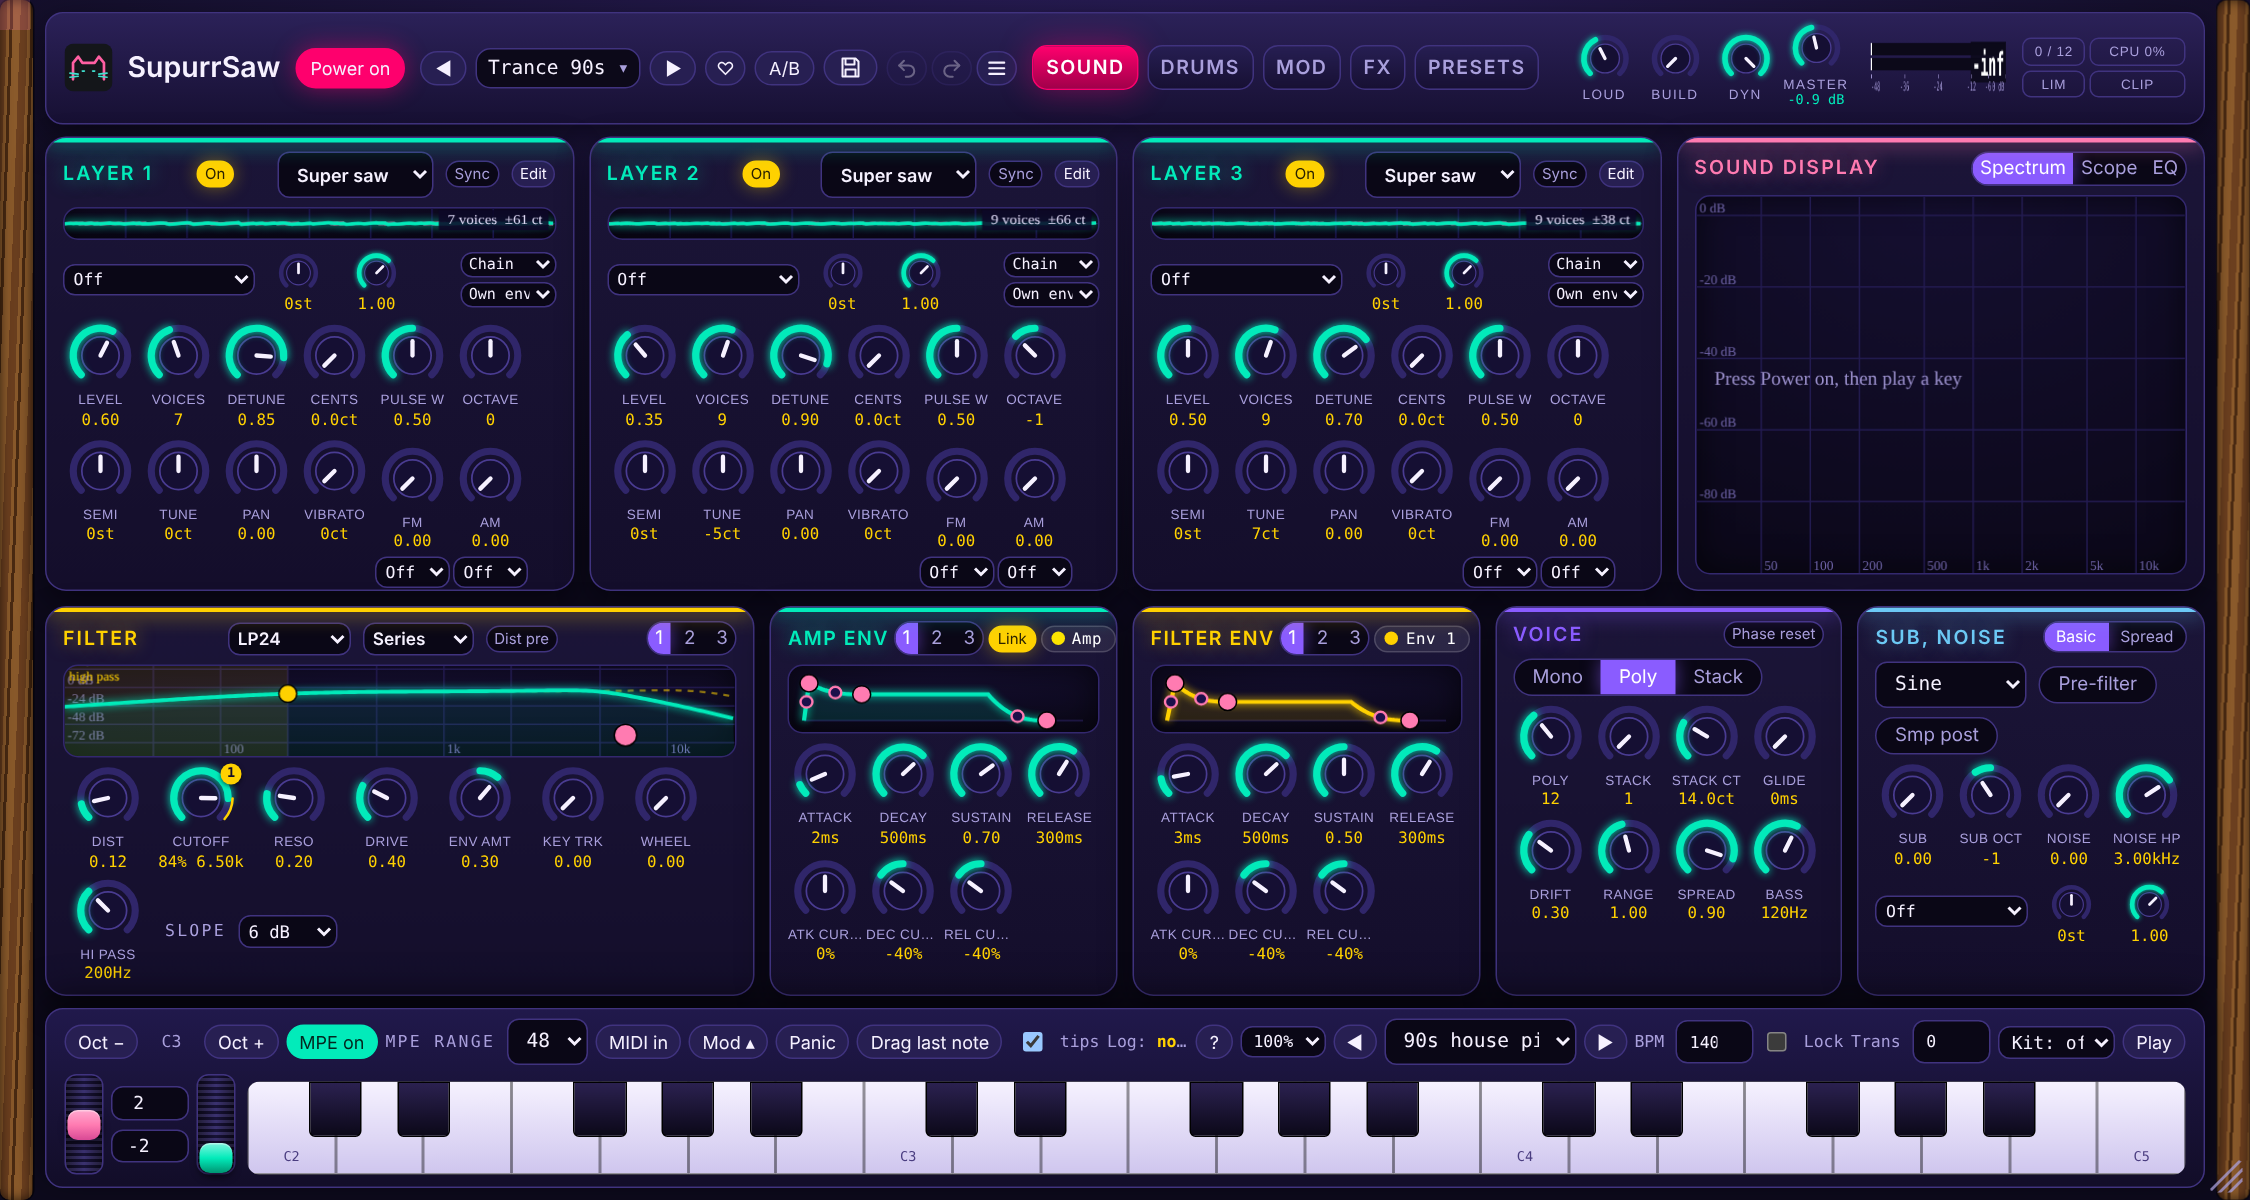
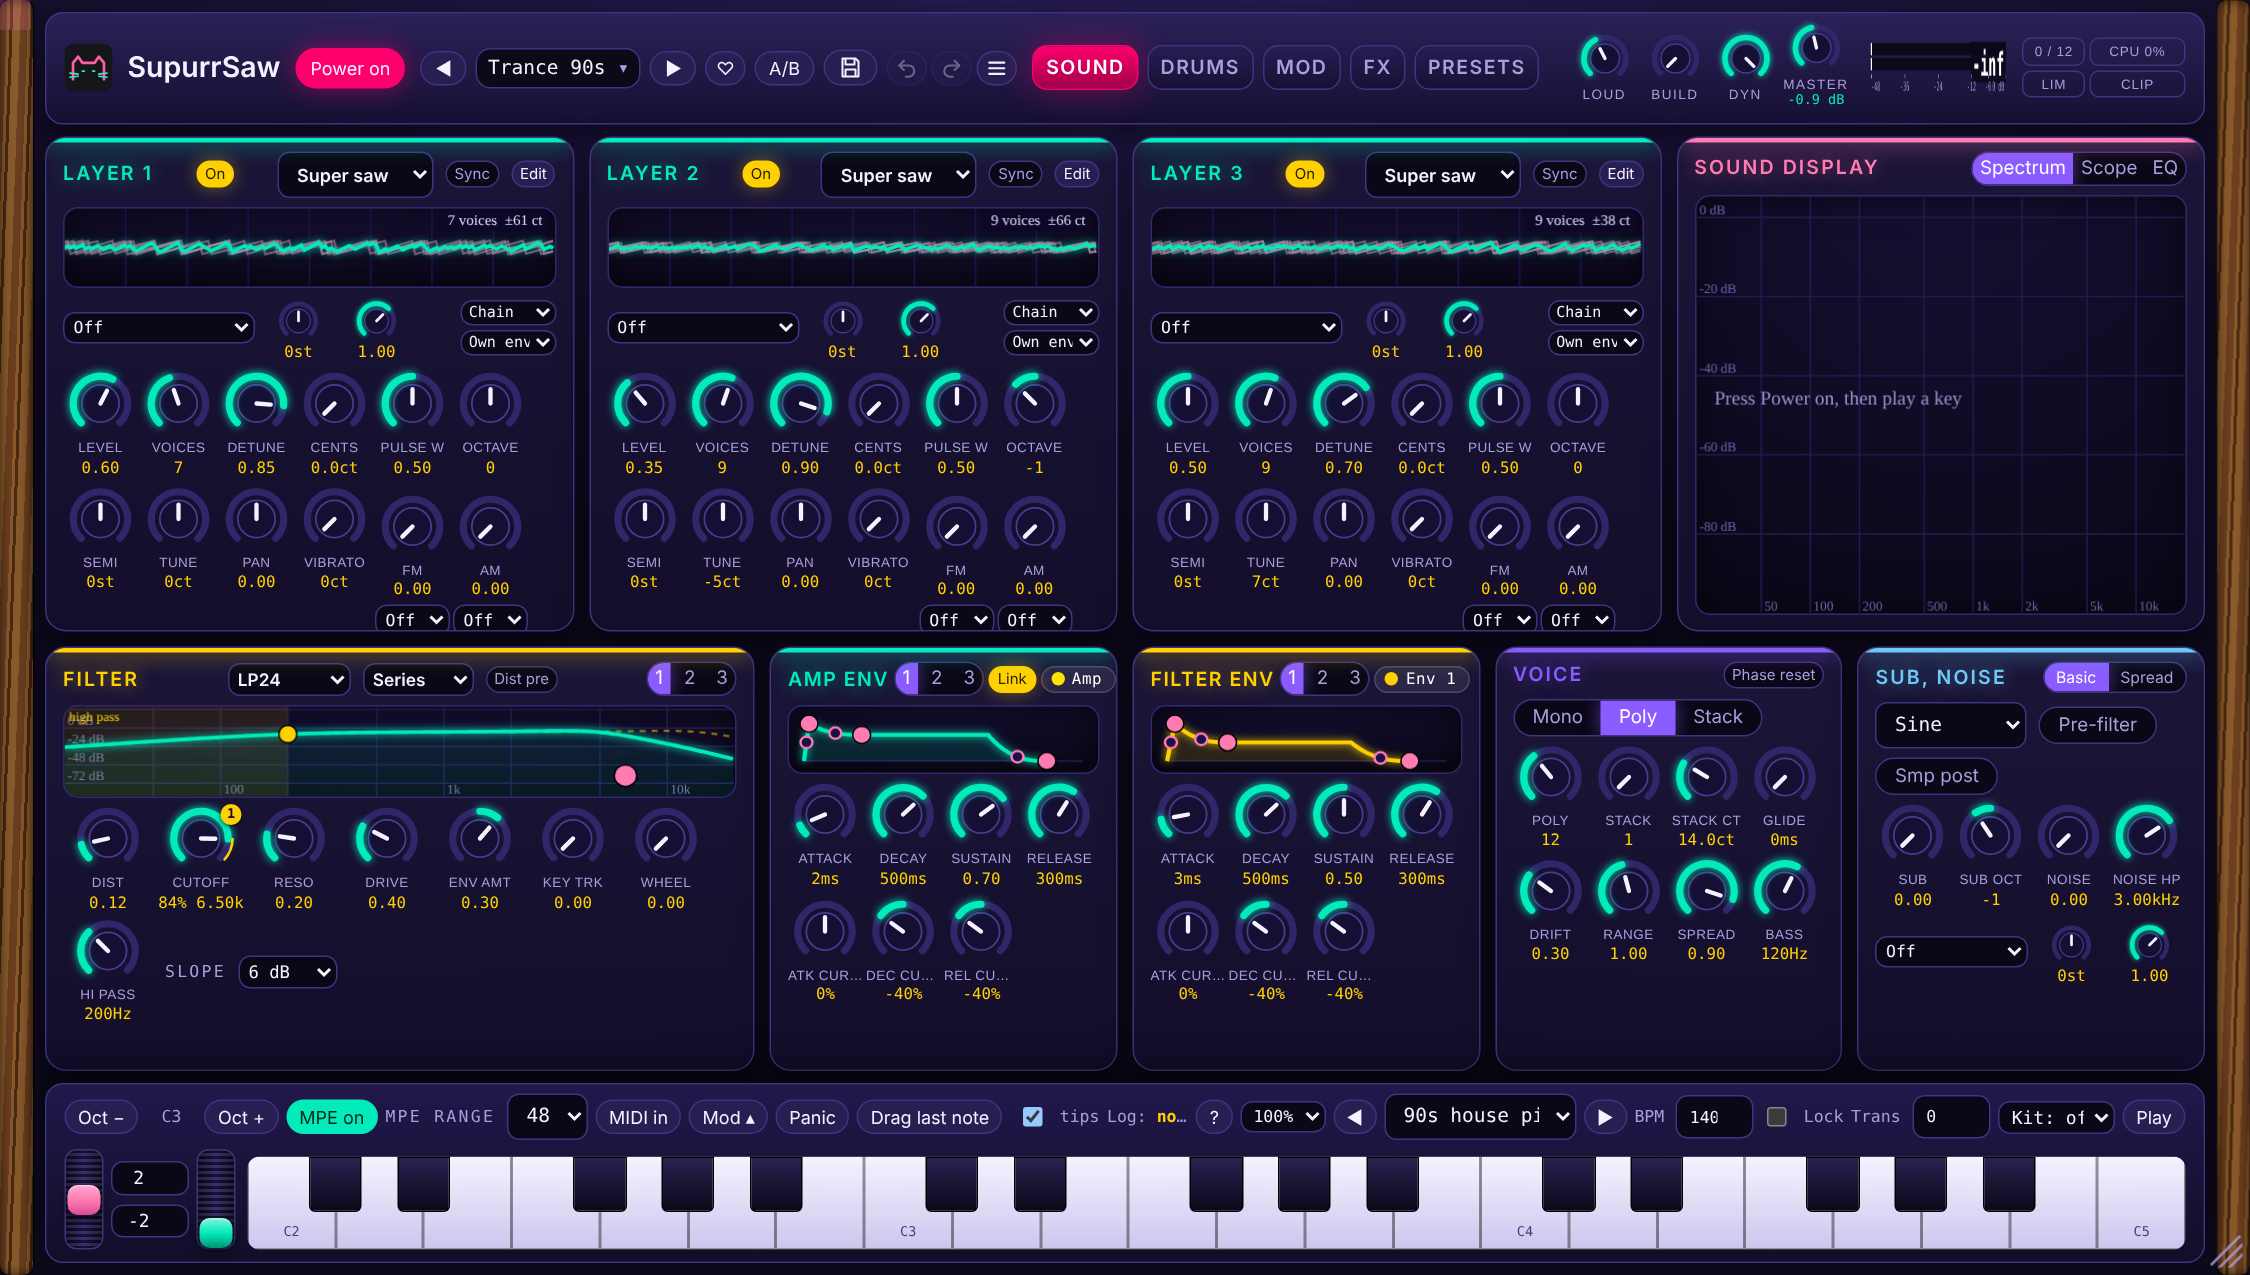
Taller window (1500x850) and a bigger waveform display per layer; screenshot
Claude-Session: https://claude.ai/code/session_015F85RWM9RCbLtwwXZANyrz

Changed region(s): [[0.0, 0.0, 1.0, 1.0], [0.7467, 0.2775, 0.8711, 0.37]]

diff --git a/ui/supurrsaw-playground.html b/ui/supurrsaw-playground.html
@@ -143,7 +143,7 @@ canvas{display:block;max-width:100%}
 .stage .pages button{flex:0 0 auto;padding:6px 8px;font-size:13px;letter-spacing:1px;border-radius:10px}.stage .pbtn{min-width:96px;max-width:118px;padding:5px 7px}.stage #power{padding:5px 9px;font-size:12px}.stage #favB{padding:3px 6px}.stage .hbtns{margin-left:0}.stage .topk{gap:0}.stage .topk .knob{width:47px}.stage .lamps2 .lamp{font-size:9px;letter-spacing:.5px;padding:2px 5px}.stage .btn.ic{padding:3px 5px}
 .stage .page{flex:1 1 0;min-height:0}
 .stage .page:not([hidden]){display:block}
-.stage .grid{height:100%;margin-top:0;gap:10px;grid-template-rows:minmax(0,1fr) minmax(0,1fr)}
+.stage .grid{height:100%;margin-top:0;gap:10px;grid-template-rows:minmax(0,1.1fr) minmax(0,1fr)}
 .stage .card{padding:9px 11px 10px;overflow:hidden}
 .stage .card h2{font-size:13px;margin-bottom:6px;letter-spacing:1.4px;gap:4px;flex-wrap:nowrap}.stage .card h2 .seg button{padding:3px 5px}.stage .card h2 .tog,.stage .card h2 .btn{padding:2px 5px;font-size:10px;letter-spacing:0;gap:3px}.stage .card h2{letter-spacing:1px;gap:3px}.stage .card h2>*{flex-shrink:0}.stage .card h2{white-space:nowrap}
 .stage .c2{grid-column:span 2!important}.stage .c3{grid-column:span 3!important}.stage .c4{grid-column:span 4!important}.stage .c5{grid-column:span 5!important}.stage .c6{grid-column:span 6!important}.stage .c7{grid-column:span 7!important}.stage .c8{grid-column:span 8!important}.stage .c9{grid-column:span 9!important}
@@ -1174,7 +1174,7 @@ const EN=new Function(ENGINE_SRC+"\nreturn {Fx,delaySeconds,SupurrEngine,default
 const clone=o=>JSON.parse(JSON.stringify(o));
 const clamp=(v,a,b)=>Math.max(a,Math.min(b,v));
 const STAGE=innerWidth>=900&&innerHeight>=520;let SCALE=1;const SH=(n,s)=>(STAGE?s:n)+"px";
-const BW=window.__BW||1500,BH=window.__BH||800;let SZ=window.__SUPURR_PLUGIN?"fit":"1";if(!window.__SUPURR_PLUGIN){try{SZ=localStorage.getItem("supurrSize")||"1";}catch(e){}}
+const BW=window.__BW||1500,BH=window.__BH||850;let SZ=window.__SUPURR_PLUGIN?"fit":"1";if(!window.__SUPURR_PLUGIN){try{SZ=localStorage.getItem("supurrSize")||"1";}catch(e){}}
 function fit(){const R=$("#rack");if(!STAGE){return;}document.documentElement.classList.add("stage");const f=Math.min(innerWidth/BW,innerHeight/BH),s=SZ==="fit"?f:Math.min(f,+SZ);SCALE=s;R.style.width=BW+"px";R.style.height=BH+"px";R.style.transform="scale("+s+")";R.style.left=Math.max(0,(innerWidth-BW*s)/2)+"px";R.style.top=Math.max(0,(innerHeight-BH*s)/2)+"px";}
 fit();window.addEventListener("resize",()=>{fit();if(typeof drawAll==="function"&&P)drawAll();});
 
@@ -1532,7 +1532,7 @@ function layerCard(i){
   const top=el("div","row");const wsel=waveSelect(p+"wave","Oscillator type. Off mutes the layer. Custom plays the shape from the Presets and waves page. Your saved waves are listed under My waves.");wsel.style.width="104px";wsel.style.fontSize="12px";top.appendChild(wsel);top.appendChild(toggle(p+"sync","Sync","Locks the layer to a hidden master oscillator, for the talking sound."));
   const eb=el("button","btn sm","Edit");eb.dataset.tip="Edit shape: open the wave lab for this layer.";eb.onclick=()=>{WL.layer=i;$("#wlLayer").value=i;const L=P.layers[i];if(L.wave!=="Custom"&&L.wave!=="Off"){const b=L.wave==="SuperSquare"?"Pulse":(L.wave==="SuperSaw"?"Saw":L.wave);for(let k=0;k<WL.N;k++)WL.cyc[k]=waveAt(L,b,k/WL.N,L.pwm);wlHarmFromCyc();wlDraw();wlStatus("Started from the "+L.wave+" shape. Edit it, then it plays on layer "+(i+1)+".");}else wlSyncFromPatch();showPage("presets");};top.appendChild(eb);
   HD(c,top);
-  const cv=el("canvas","disp wave");cv.style.height=SH(96,22);cv.style.marginTop="4px";cv.dataset.tip="Live picture of this layer: voices spread by the detune setting, moving like a scope. Change Detune, Voices or Cents and the shape follows.";c.appendChild(cv);
+  const cv=el("canvas","disp wave");cv.style.height=SH(96,54);cv.style.marginTop="4px";cv.dataset.tip="Live picture of this layer: voices spread by the detune setting, moving like a scope. Change Detune, Voices or Cents and the shape follows.";c.appendChild(cv);
   const kr=knobRow([N(p+"level","Level",0,1,0.01,"","Layer volume."),N(p+"voices","Voices",1,15,1,"","Stacked voices inside a super wave."),N(p+"detune","Detune",0,1,0.01,"","Spread of the stack on the JP-8000 style curve."),N(p+"cents","Cents",0,60,0.5,"ct","Direct spread in cents. When above 0 it replaces Detune."),N(p+"pwm","Pulse W",0.05,0.95,0.01,"","Pulse width for square and pulse waves."),N(p+"octave","Octave",-3,3,1,"","Octave shift of this layer."),N(p+"semi","Semi",-24,24,1,"st","Transpose this layer in whole semitones (on top of Octave). Use it for fifths, thirds and other interval stacks."),N(p+"tune","Tune",-4800,4800,1,"ct","Fine tune in cents. Click the value to type."),N(p+"pan","Pan",-1,1,0.01,"","Layer position in the stereo field."),N(p+"lfoPitchCents","Vibrato",0,100,1,"ct","How much the LFO moves this layer's pitch.")]);c.appendChild(kr);
   c.insertBefore(sampleRow({smp:p+"smp",pitch:p+"smpPitch",vol:p+"smpVol"},"this layer"),kr);
   const sy=el("div");sy.appendChild(el("div","lbl","Hard sync amounts"));sy.style.marginTop="6px";

diff --git a/plugin/Source/PluginEditor.cpp b/plugin/Source/PluginEditor.cpp
@@ -4,7 +4,7 @@
 
 namespace s87 {
 
-static constexpr int kBaseW = 1500, kBaseH = 800;
+static constexpr int kBaseW = 1500, kBaseH = 850;
 
 juce::String SupurrEditor::safeName (const juce::String& s)
 {
